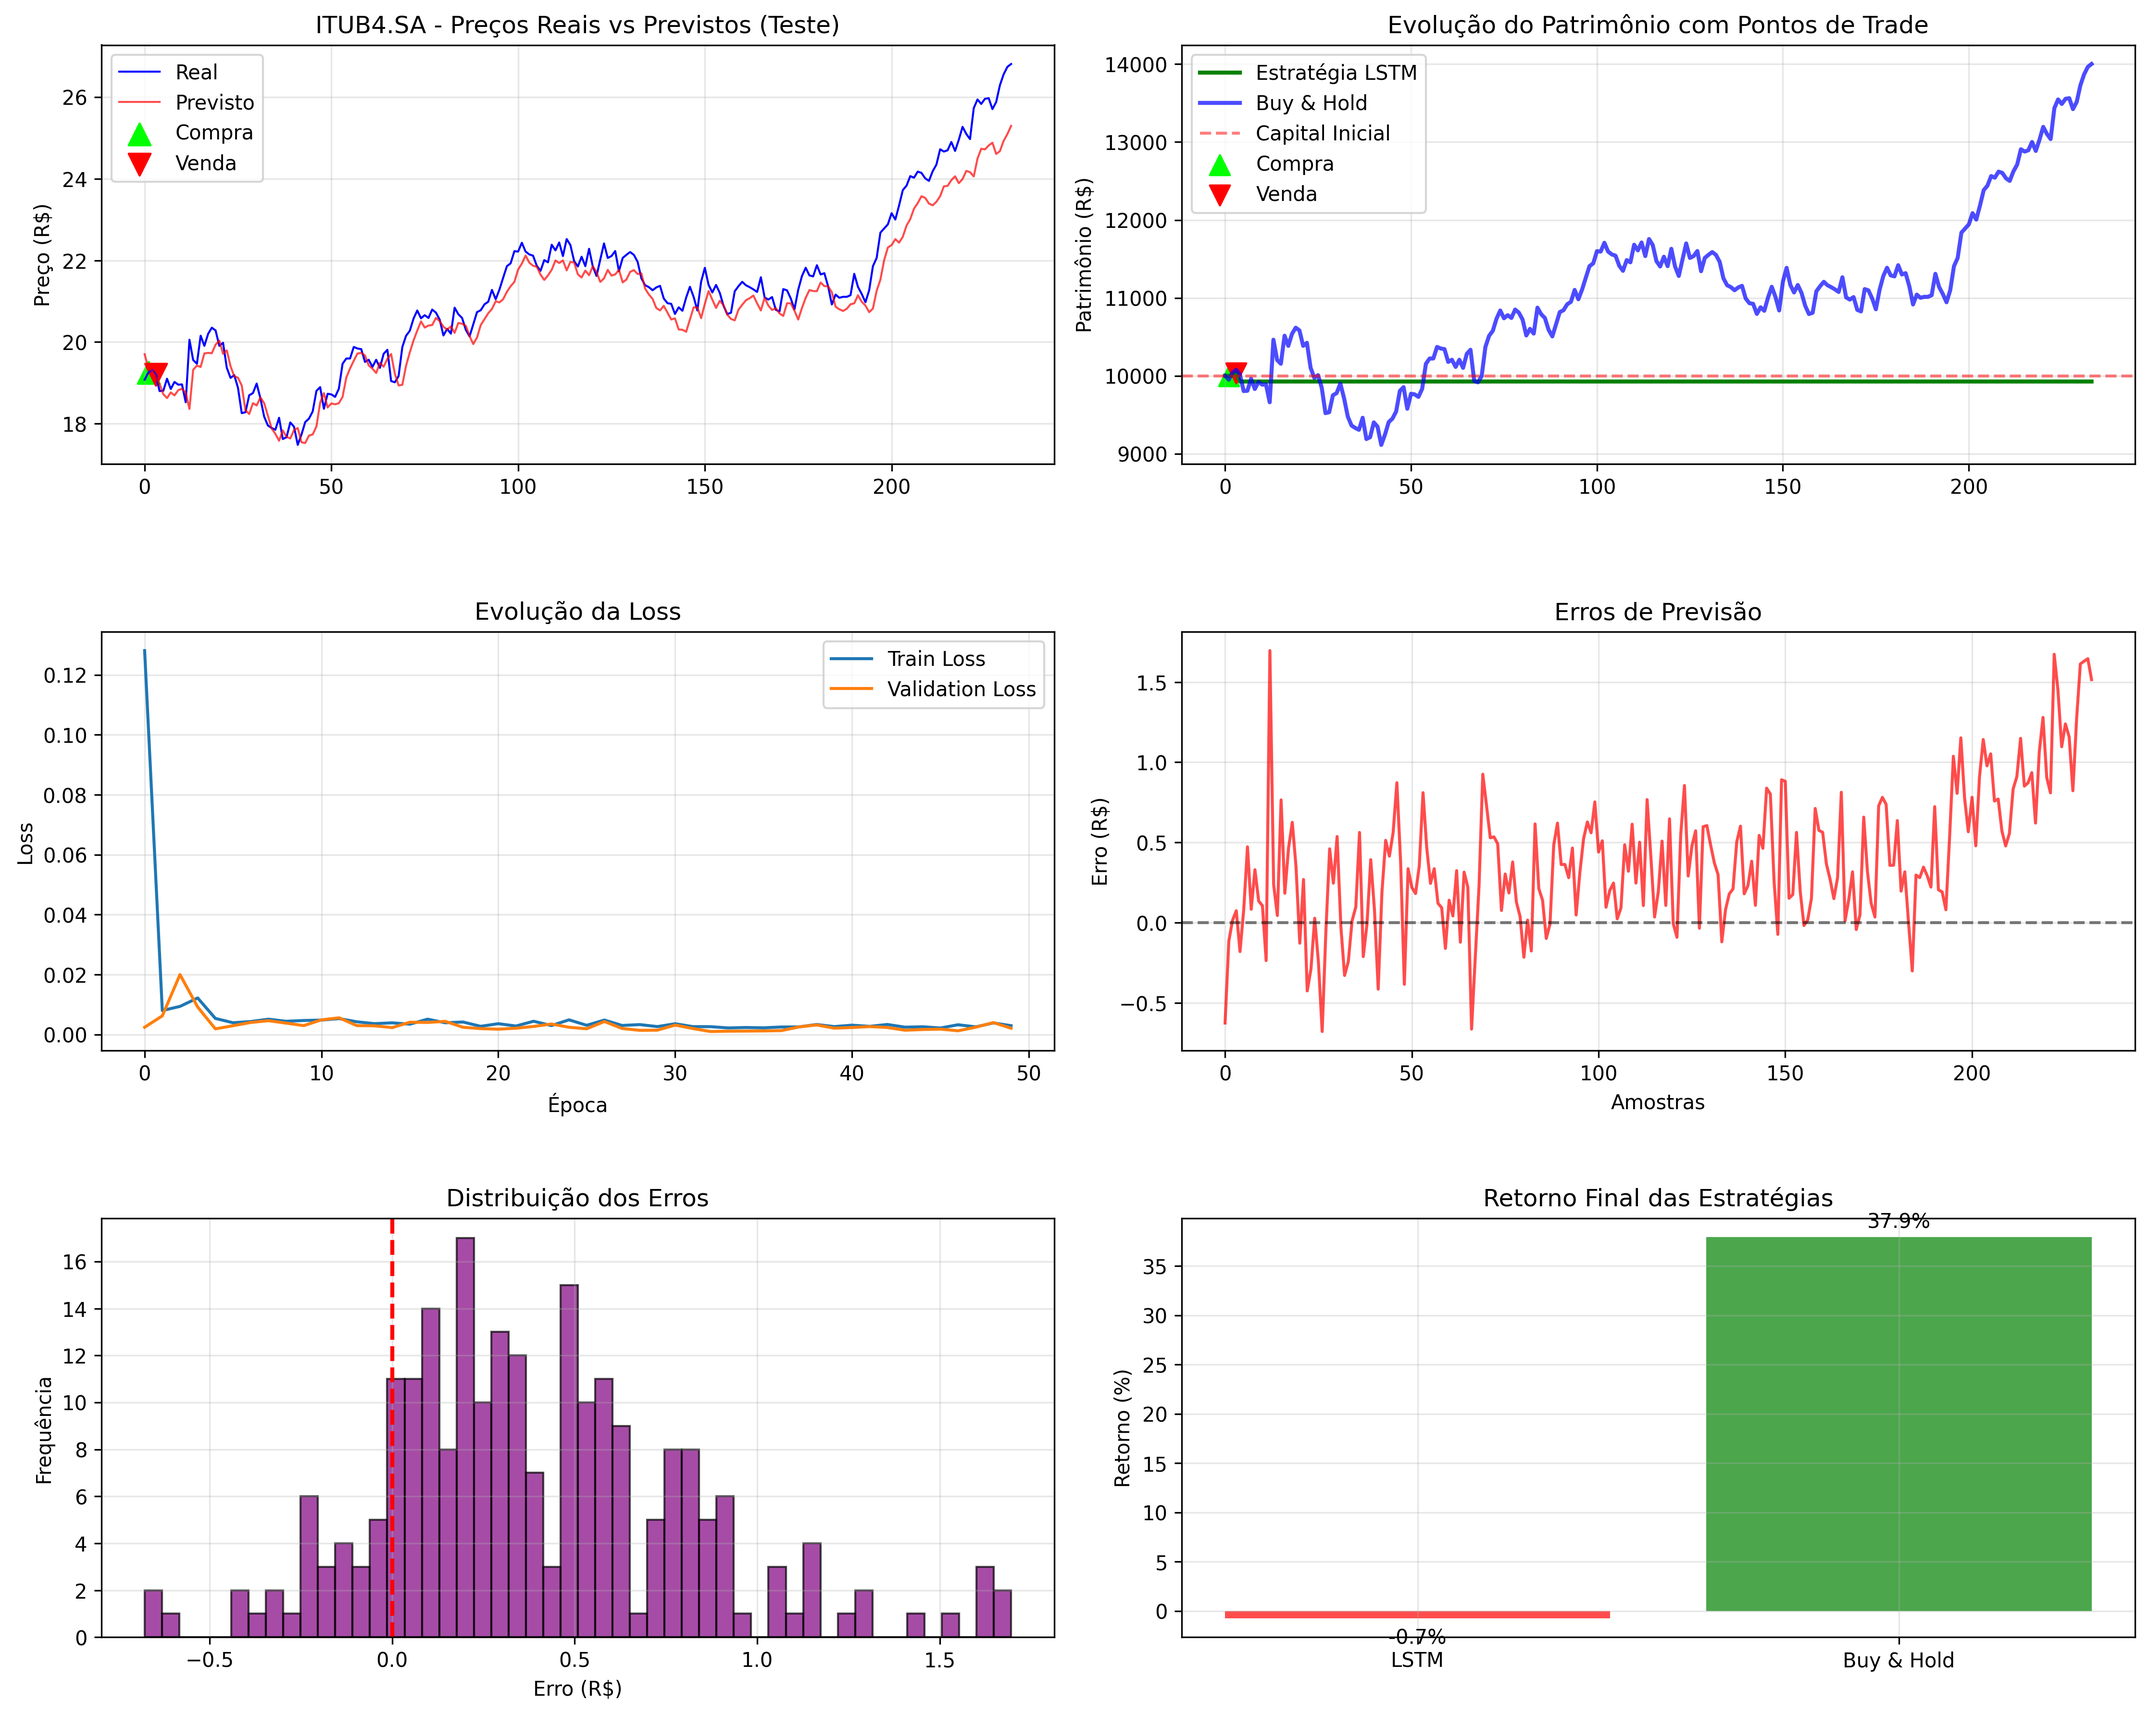
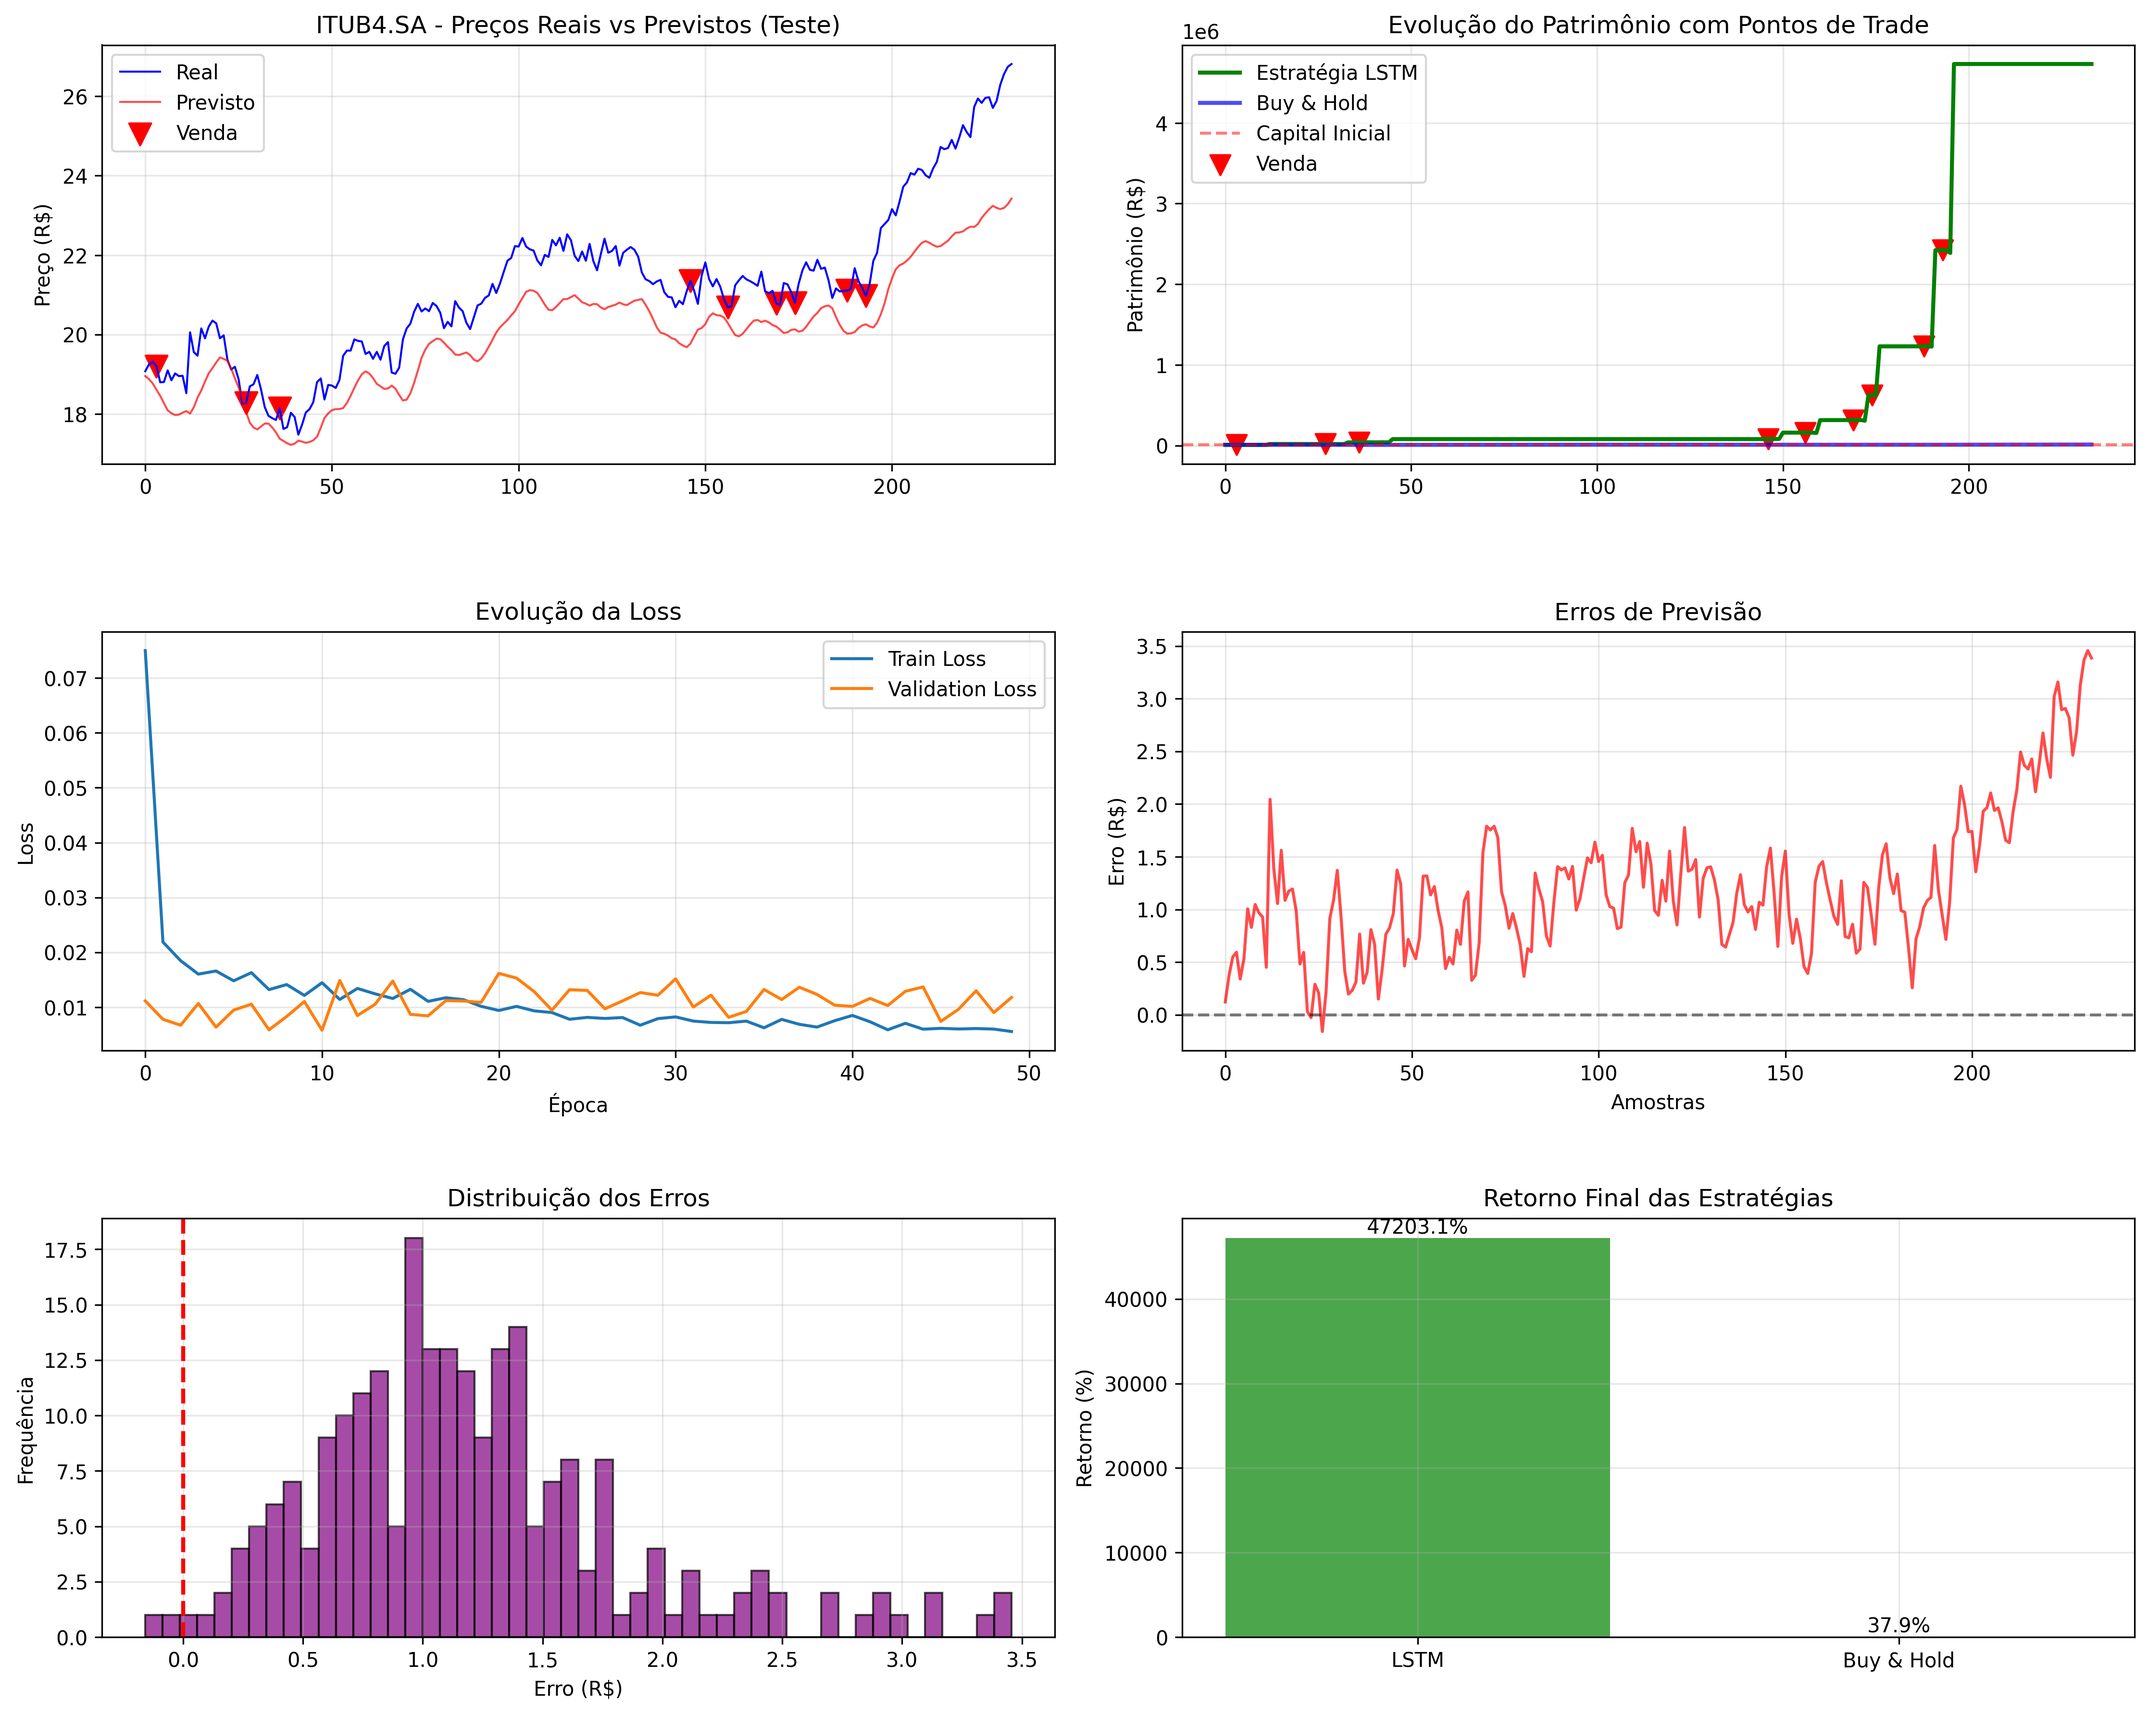
lstm

diff --git a/lstm.py b/lstm.py
@@ -90,20 +90,20 @@ class TradingLSTMModel:
     
     def build_model(self, input_shape):
         """Constrói a arquitetura LSTM otimizada"""
-        # self.model = Sequential([
-        #     LSTM(100, return_sequences=True, input_shape=input_shape, dropout=0.2),
-        #     LSTM(50, return_sequences=False, dropout=0.2),
-        #     Dense(25, activation='relu'),
-        #     Dropout(0.1),
-        #     Dense(1)
-        # ])
         self.model = Sequential([
-          LSTM(500, return_sequences=True, input_shape=input_shape),
-          Dropout(0.3),
-          LSTM(500, return_sequences=False),
-          Dropout(0.3),
-          Dense(1)
+            LSTM(100, return_sequences=True, input_shape=input_shape, dropout=0.2),
+            LSTM(50, return_sequences=False, dropout=0.2),
+            Dense(25, activation='relu'),
+            Dropout(0.1),
+            Dense(1)
         ])
+        # self.model = Sequential([
+        #   LSTM(500, return_sequences=True, input_shape=input_shape),
+        #   Dropout(0.3),
+        #   LSTM(500, return_sequences=False),
+        #   Dropout(0.3),
+        #   Dense(1)
+        # ])
         self.model.compile(optimizer='adam', loss='mse', metrics=['mae'])
         return self.model
     
@@ -158,39 +158,64 @@ class TradingLSTMModel:
         return train_predict_inv, test_predict_inv, y_train_inv, y_test_inv
 
     def generate_signals(self, predictions, actual_prices, dates):
-        """Gera sinais de compra/venda baseados nas previsões reais"""
+        """Gera sinais de compra, venda e venda a descoberto (short selling)."""
         signals = []
         positions = []
-        current_position = 0
+        current_position = 0  # 0 = fora, 1 = comprado, -1 = vendido
 
         for i in range(1, len(predictions)):
             pred_price = predictions[i]
             price_today = actual_prices[i - 1]
-
-            # Agora são valores em reais — podemos medir a variação percentual real
-            pred_diff = ((pred_price - price_today) / price_today) * 100
+            pred_diff = ((pred_price - price_today) / price_today) * 100  # variação %
 
             # Indicadores auxiliares
             rsi = self.data.loc[dates[i], 'RSI'] if dates[i] in self.data.index else 50
             macd = self.data.loc[dates[i], 'MACD'] if dates[i] in self.data.index else 0
             macd_signal = self.data.loc[dates[i], 'MACD_Signal'] if dates[i] in self.data.index else 0
+            ema20 = self.data.loc[dates[i], 'EMA_20'] if dates[i] in self.data.index else 0
+            ema60 = self.data.loc[dates[i], 'EMA_60'] if dates[i] in self.data.index else 0
 
+            # ===============================
+            # 📈 COMPRADO (LONG)
+            # ===============================
             if current_position == 0:
-                if pred_diff > 0.3 and rsi < 70 and macd > macd_signal:
+                # Compra normal (tendência de alta)
+                if pred_diff > 0.2 and rsi < 70 and macd > macd_signal and ema20 > ema60:
                     signals.append('BUY')
                     current_position = 1
+
+                # Venda a descoberto (short) — tendência de baixa
+                elif pred_diff < -0.2 and rsi > 30 and macd < macd_signal and ema20 < ema60:
+                    signals.append('SELL_SHORT')
+                    current_position = -1
                 else:
                     signals.append('HOLD')
-            else:
-                if pred_diff < -0.3 or rsi > 75 or macd < macd_signal:
+
+            # ===============================
+            # 🔼 JÁ COMPRADO
+            # ===============================
+            elif current_position == 1:
+                # Fecha posição comprada se o preço virar
+                if pred_diff < -0.15 or rsi > 75 or macd < macd_signal or ema20 < ema60:
                     signals.append('SELL')
+                    current_position = 0
+                else:
+                    signals.append('HOLD')
+
+            # ===============================
+            # 🔽 JÁ VENDIDO (SHORT)
+            # ===============================
+            elif current_position == -1:
+                # Fecha short se tendência inverter
+                if pred_diff > 0.15 or rsi < 25 or macd > macd_signal or ema20 > ema60:
+                    signals.append('CLOSE_SHORT')
                     current_position = 0
                 else:
                     signals.append('HOLD')
 
             positions.append(current_position)
 
-        # Ajusta o tamanho da lista
+        # Ajuste inicial
         signals.insert(0, 'HOLD')
         positions.insert(0, 0)
 
@@ -199,17 +224,16 @@ class TradingLSTMModel:
 
 
     def backtest_strategy(self):
-        """Executa backtesting da estratégia (versão corrigida com preços reais)"""
+        """Executa backtesting da estratégia (com suporte a posições short)."""
         _, test_predict, _, y_test = self.predict()
 
-        # ⚠ Agora já estão invertidos para escala real (em R$)
         predictions = test_predict.flatten()
         actual_prices = y_test.flatten()
 
         # Gerar sinais
         signals, positions = self.generate_signals(predictions, actual_prices, self.test_dates)
 
-        # Backtesting
+        # Inicialização
         cash = self.initial_capital
         shares = 0
         trades = []
@@ -223,15 +247,16 @@ class TradingLSTMModel:
             current_date = self.test_dates[i]
             current_price = actual_prices[i]
 
+            # ===============================
+            # 🟢 COMPRA NORMAL (LONG)
+            # ===============================
             if signal == 'BUY' and cash > 0:
                 shares_to_buy = cash / current_price
                 cost = shares_to_buy * current_price
                 taxa = cost * self.taxa_corretagem
-
                 shares += shares_to_buy
                 cash = 0
                 entry_price = current_price
-
                 trades.append({
                     'date': current_date,
                     'action': 'BUY',
@@ -240,12 +265,14 @@ class TradingLSTMModel:
                     'taxa': taxa
                 })
 
+            # ===============================
+            # 🔴 VENDA NORMAL (fechar posição comprada)
+            # ===============================
             elif signal == 'SELL' and shares > 0:
                 revenue = shares * current_price
                 taxa = revenue * self.taxa_corretagem
                 cash = revenue - taxa
                 profit_pct = ((current_price - entry_price) / entry_price) * 100
-
                 trades.append({
                     'date': current_date,
                     'action': 'SELL',
@@ -255,25 +282,66 @@ class TradingLSTMModel:
                 })
                 shares = 0
 
-            # Atualiza o patrimônio
-            portfolio_value = cash + (shares * current_price if shares > 0 else 0)
+            # ===============================
+            # 🔽 VENDA A DESCOBERTO (SHORT)
+            # ===============================
+            elif signal == 'SELL_SHORT' and cash > 0:
+                shares = - (cash / current_price)
+                cash += abs(shares) * current_price
+                entry_price = current_price
+                trades.append({
+                    'date': current_date,
+                    'action': 'SELL_SHORT',
+                    'price': current_price,
+                    'shares': shares
+                })
+
+            # ===============================
+            # 🔁 FECHAR POSIÇÃO SHORT
+            # ===============================
+            elif signal == 'CLOSE_SHORT' and shares < 0:
+                # Lucro: diferença entre preço de venda (entry_price) e recompra (current_price)
+                profit = abs(shares) * (entry_price - current_price)
+                taxa = abs(shares) * current_price * self.taxa_corretagem
+                cash += profit - taxa
+                profit_pct = ((entry_price - current_price) / entry_price) * 100
+                trades.append({
+                    'date': current_date,
+                    'action': 'CLOSE_SHORT',
+                    'price': current_price,
+                    'profit_pct': profit_pct
+                })
+                shares = 0
+
+            # ===============================
+            # 💰 Atualiza patrimônio total
+            # ===============================
+            portfolio_value = cash + (shares * current_price if shares != 0 else 0)
             equity_curve.append(portfolio_value)
 
-        # Fechar posição final
+        # Fecha qualquer posição aberta no fim
         if shares > 0:
             final_price = actual_prices[-1]
             revenue = shares * final_price
             taxa = revenue * self.taxa_corretagem
             cash = revenue - taxa
-            profit_pct = ((final_price - entry_price) / entry_price) * 100
             trades.append({
                 'date': self.test_dates[-1],
                 'action': 'SELL_FINAL',
-                'price': final_price,
-                'taxa': taxa,
-                'profit_pct': profit_pct
+                'price': final_price
             })
-            equity_curve[-1] = cash
+            shares = 0
+        elif shares < 0:
+            final_price = actual_prices[-1]
+            profit = abs(shares) * (entry_price - final_price)
+            taxa = abs(shares) * final_price * self.taxa_corretagem
+            cash += profit - taxa
+            trades.append({
+                'date': self.test_dates[-1],
+                'action': 'CLOSE_SHORT_FINAL',
+                'price': final_price
+            })
+            shares = 0
 
         return equity_curve, trades
 
